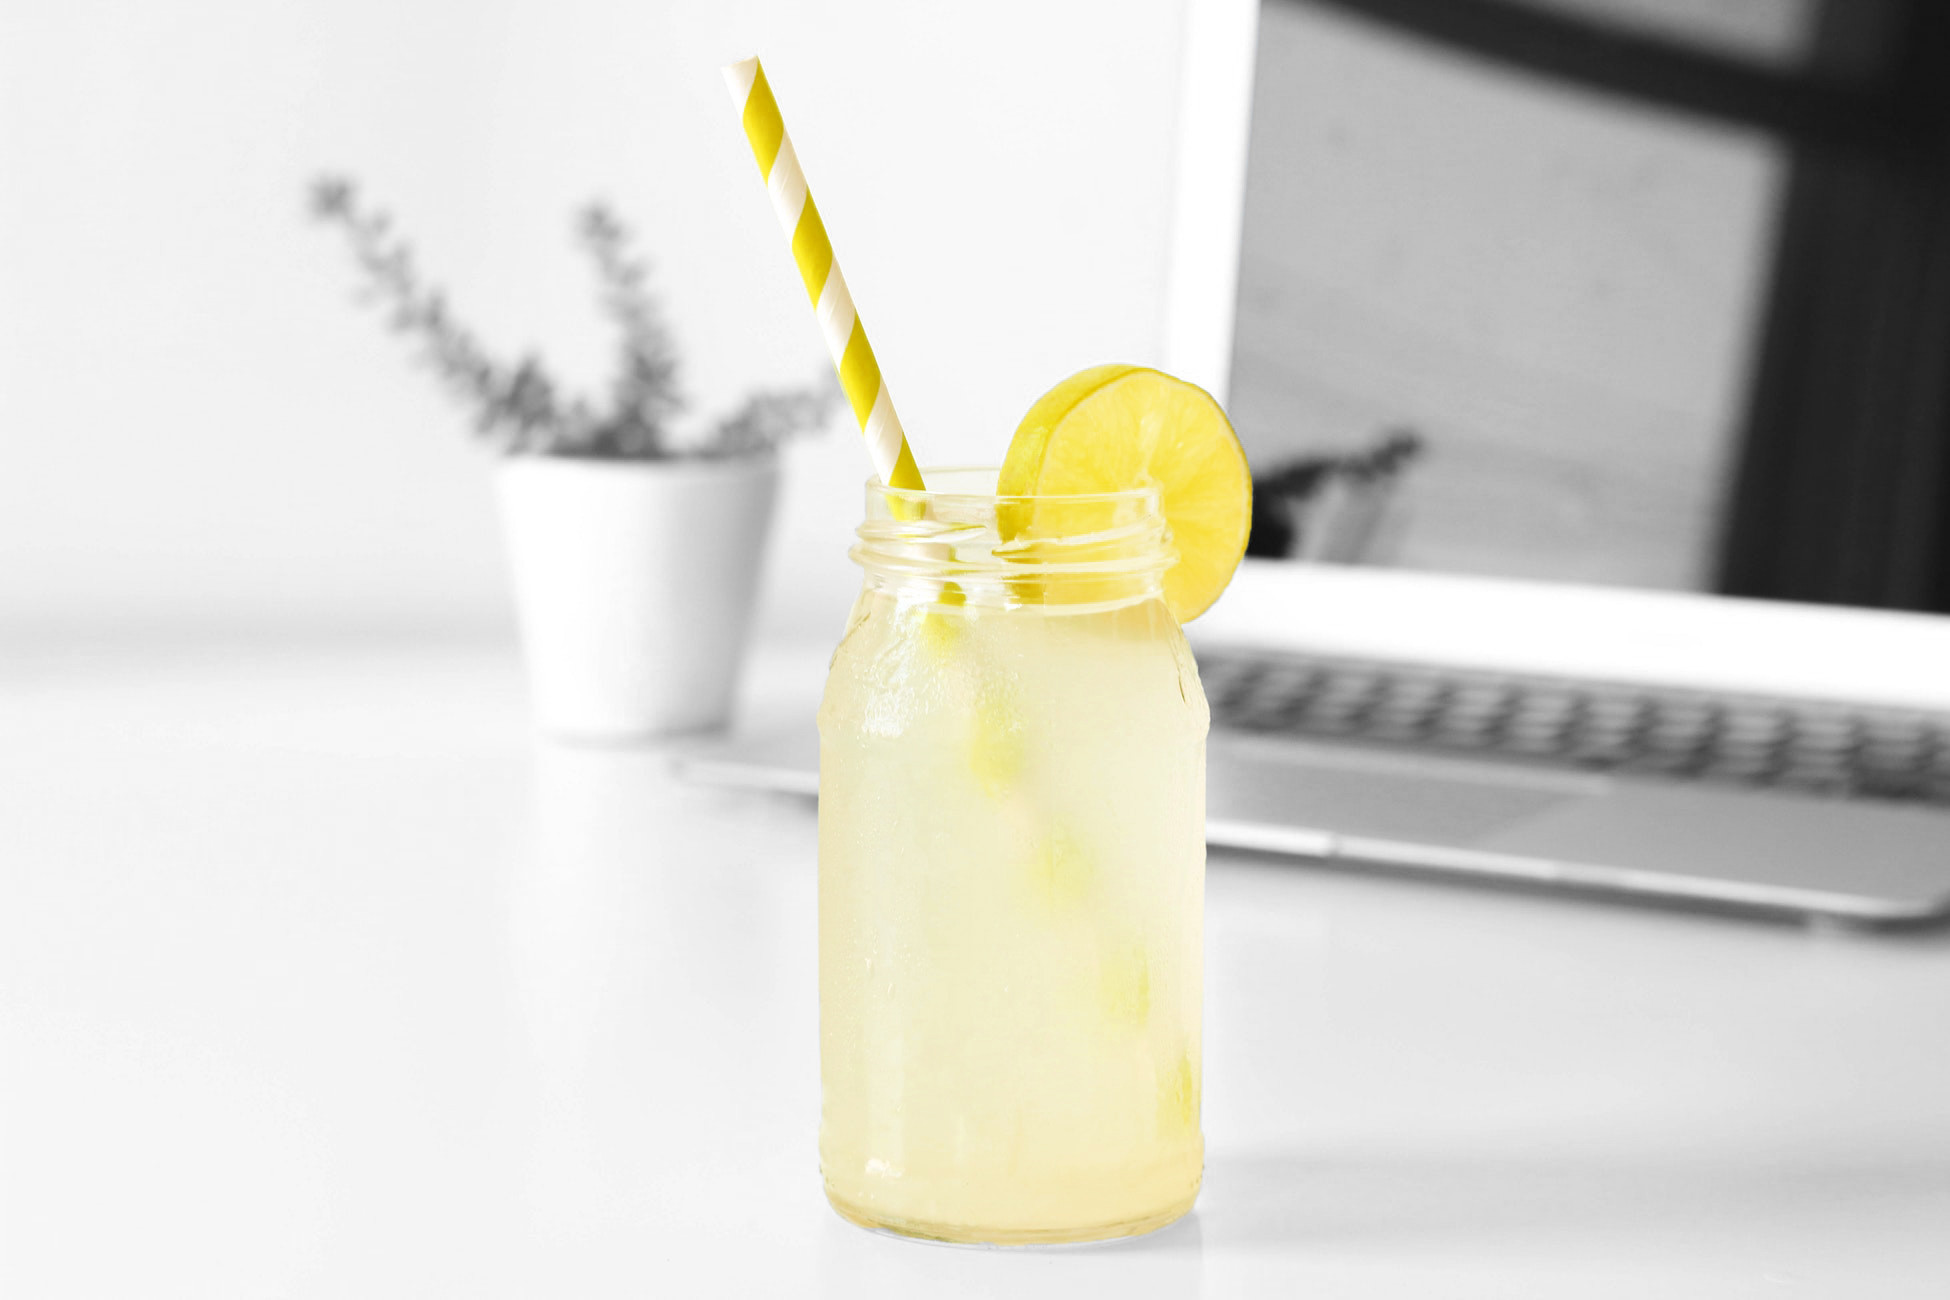
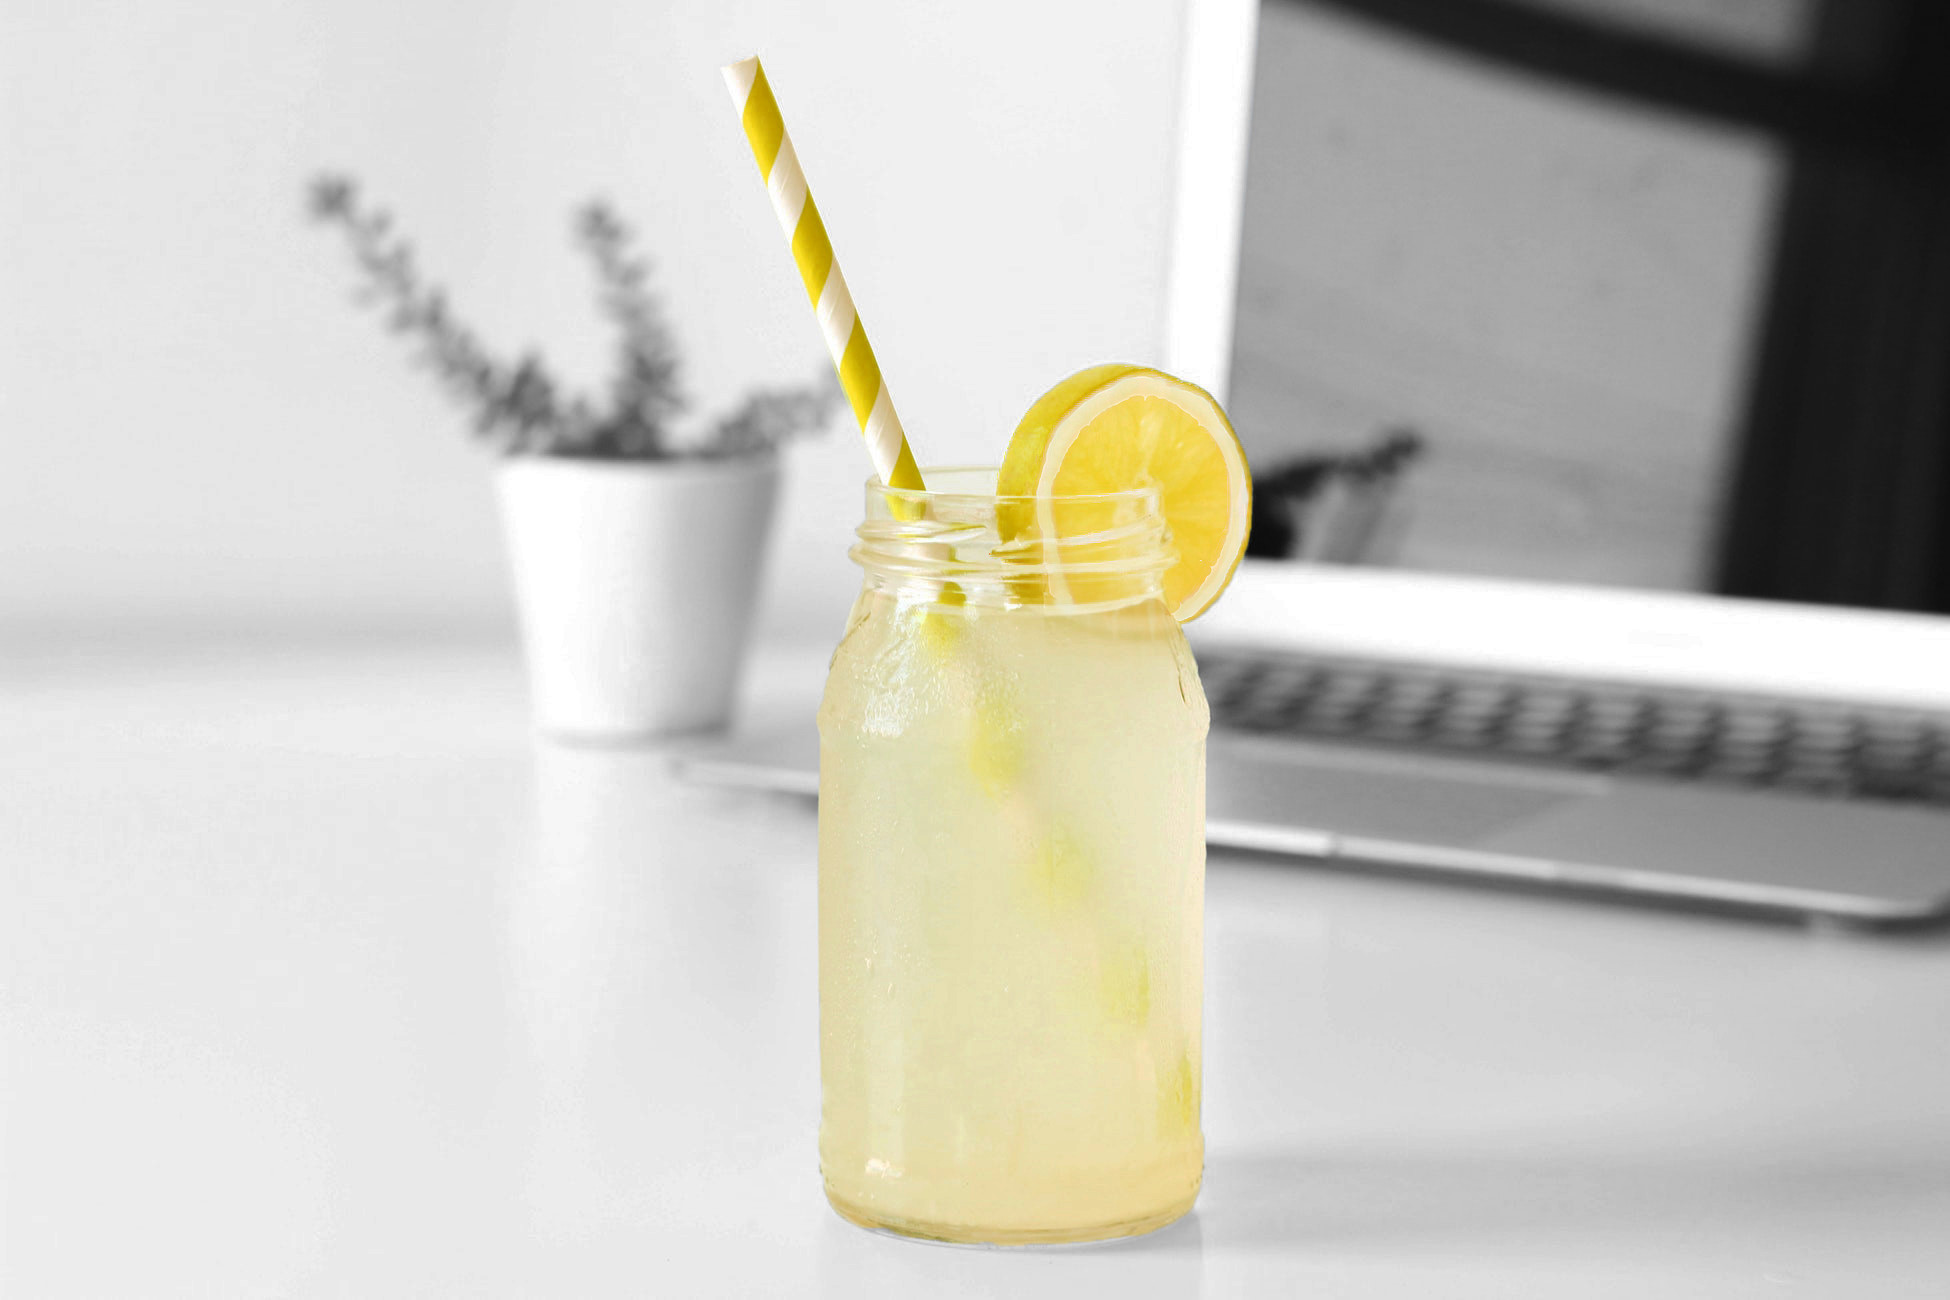
Landing background image update

diff --git a/index.html b/index.html
@@ -15,7 +15,7 @@
 <!-- Navbar -->
 <nav class="navbar navbar-expand-sm navbar-dark">
   <div class="container">
-    <a class="navbar-brand" href="#"><img class="logo" src="images/ML.png"></a>
+    <a class="navbar-brand" href="."><img class="logo" src="images/ML.png"></a>
     <button class="navbar-toggler" type="button" data-toggle="collapse" data-target="#navbarSupportedContent" aria-controls="navbarSupportedContent" aria-expanded="false" aria-label="Toggle navigation">
       <span class="navbar-toggler-icon"></span>
     </button>
@@ -100,7 +100,8 @@
         <div>
         <p>Tools</p>
         <ul>
-          <li>GitHub</li>
+          <li>Git + GitHub</li>
+		  <li>Linux Terminal</li>
         </ul>
         </div>
         </div>
@@ -169,14 +170,14 @@
       <div class="social">
         <p class="title title_underline">Social</p>
         <p><a href="mailto:matheww96@gmail.com">matheww96@gmail.com</a> <i class="fas fa-at"></i></p>
-        <p><a target="_blank" href="https://www.linkedin.com/in/mathew-ly-a9311016a/">LinkedIn</a> <i class="fab fa-linkedin"></i></p>
-        <p><a target="_blank" href="https://github.com/axelotl">GitHub</a> <i class="fab fa-github-square"></i></i></p>
+        <p><a href="https://www.linkedin.com/in/mathew-ly-a9311016a/">LinkedIn</a> <i class="fab fa-linkedin"></i></p>
+        <p><a href="https://github.com/axelotl">GitHub</a> <i class="fab fa-github-square"></i></i></p>
       </div>
       </div>
     </div>
 	<div class="row">
 	  <div class="col-lg-12 credit">
-	    <div>Icons made by <a href="http://www.freepik.com" title="Freepik">Freepik</a> from <a href="https://www.flaticon.com/" title="Flaticon">www.flaticon.com</a> is licensed by <a href="http://creativecommons.org/licenses/by/3.0/" title="Creative Commons BY 3.0" target="_blank">CC 3.0 BY</a></div>
+	    <div>Credit: Icons made by <a href="http://www.freepik.com" title="Freepik">Freepik</a> from <a href="https://www.flaticon.com/" title="Flaticon">www.flaticon.com</a> is licensed by <a href="http://creativecommons.org/licenses/by/3.0/" title="Creative Commons BY 3.0" target="_blank">CC 3.0 BY</a> / Photos by <a href="https://unsplash.com/photos/dq0x8AvNKv8">Tirza van Dijk</a> & <a href="https://unsplash.com/photos/ZZLiZmBtA8I">J. Kelly Brito</a> on <a href="https://unsplash.com/">Unsplash</a></div>
 	  </div>
 	</div>
   </div>
@@ -203,7 +204,7 @@ $("#lemons").click(function(){
   $('.landing').css({
     'background': 'url(images/lemonade.jpg)',
     'background-size': 'cover',
-    'background-position': 'center'
+    'background-position': 'center bottom'
   });
   $('.fa-angle-down').css('visibility', 'visible').animate({opacity: 1.0}, 1000);
 });

diff --git a/style.css b/style.css
@@ -100,7 +100,7 @@ nav button {
   -webkit-transition: background 1s linear;
   -moz-transition: background 1s linear;
   background-size: cover;
-  background-position: top;
+  background-position: center;
 }
 
 .content {
